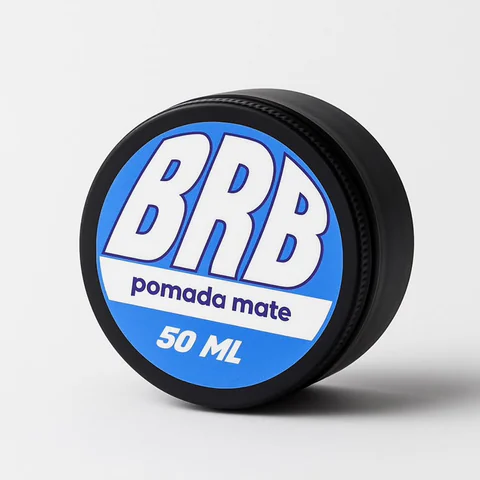
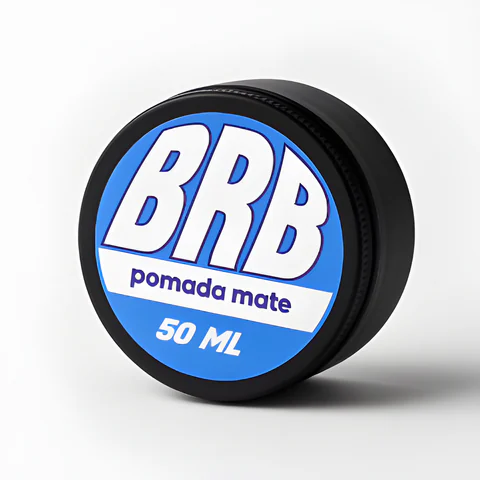
Fotos BRB nuevas mejoradas con IA, antes y después de la pomada y slider más fluido
- Se quita el banner "Pedilos por WhatsApp" y su anuncio.
- Fotos nuevas de Pomada mate y Cera en polvo.
- Antes y después con fotos nuevas alineadas para la cera y uno nuevo para la pomada.
- Fotos chicas mejoradas x4 con Real-ESRGAN (caché en assets-src/brb/x4).
- Slider: resorte por tiempo con inercia, barrido de demo continuo y barra movida con transform.

Changed region(s): [[0.1562, 0.1562, 0.9688, 0.9062], [0.7812, 0.2812, 0.875, 0.5], [0.8438, 0.5312, 0.875, 0.5938]]

diff --git a/src/components/CompareSlider.tsx b/src/components/CompareSlider.tsx
@@ -14,13 +14,18 @@ type Props = {
 };
 
 const clamp = (v: number) => Math.min(100, Math.max(0, v));
-const easeInOut = (t: number) => (t < 0.5 ? 4 * t * t * t : 1 - Math.pow(-2 * t + 2, 3) / 2);
+const easeInOutSine = (t: number) => (1 - Math.cos(Math.PI * t)) / 2;
+
+/** Spring presets (stiffness, damping ratio). Drag: tight follow. Tap/keys: a soft glide. */
+const FOLLOW = { k: 700, zeta: 0.9 };
+const GLIDE = { k: 160, zeta: 0.88 };
 
 /**
  * Before / after comparison. One CSS variable, --p (0..100), drives the
  * divider, the clip of the "después" layer and both labels, so they can never
  * drift apart. Position updates bypass React: a requestAnimationFrame loop
- * eases the current value toward the pointer target and writes --p directly.
+ * runs a time-based spring toward the pointer target (so motion keeps its
+ * momentum and is the same speed at any refresh rate) and writes --p directly.
  * Left of the divider = antes, right = después.
  */
 export function CompareSlider({ before, after, beforeAlt, afterAlt, labels }: Props) {
@@ -28,7 +33,7 @@ export function CompareSlider({ before, after, beforeAlt, afterAlt, labels }: Pr
   const box = useRef<HTMLDivElement>(null);
   const knob = useRef<HTMLSpanElement>(null);
   const [dragging, setDragging] = useState(false);
-  const state = useRef({ current: 50, target: 50, raf: 0, demo: false, touched: false });
+  const state = useRef({ current: 50, target: 50, vel: 0, last: 0, spring: GLIDE, raf: 0, demo: false, touched: false });
   const { width, height } = imageEntry(before);
 
   // Write the position to the DOM (no React render).
@@ -44,19 +49,30 @@ export function CompareSlider({ before, after, beforeAlt, afterAlt, labels }: Pr
     }
   };
 
-  // Ease toward the target; stops itself once settled.
-  const loop = () => {
+  // Spring toward the target; stops itself once settled.
+  const loop = (now: number) => {
     const s = state.current;
-    const diff = s.target - s.current;
-    s.current = Math.abs(diff) < 0.05 ? s.target : s.current + diff * 0.32;
-    paint(s.current);
-    s.raf = s.current === s.target ? 0 : requestAnimationFrame(loop);
+    const dt = Math.min(0.032, s.last ? (now - s.last) / 1000 : 1 / 60);
+    s.last = now;
+    const { k, zeta } = s.spring;
+    // two half steps keep the stiff drag spring stable on slow frames
+    for (let i = 0; i < 2; i++) {
+      const h = dt / 2;
+      const acc = k * (s.target - s.current) - 2 * zeta * Math.sqrt(k) * s.vel;
+      s.vel += acc * h;
+      s.current += s.vel * h;
+    }
+    const settled = Math.abs(s.target - s.current) < 0.02 && Math.abs(s.vel) < 0.05;
+    if (settled) { s.current = s.target; s.vel = 0; }
+    paint(clamp(s.current));
+    s.raf = settled ? 0 : requestAnimationFrame(loop);
   };
-  const goTo = (v: number, instant = false) => {
+  const goTo = (v: number, spring = GLIDE) => {
     const s = state.current;
     s.target = clamp(v);
-    if (instant || reduce) { s.current = s.target; paint(s.current); return; }
-    if (!s.raf) s.raf = requestAnimationFrame(loop);
+    s.spring = spring;
+    if (reduce) { s.current = s.target; s.vel = 0; paint(s.current); return; }
+    if (!s.raf) { s.last = 0; s.raf = requestAnimationFrame(loop); }
   };
 
   const stopDemo = () => {
@@ -65,9 +81,9 @@ export function CompareSlider({ before, after, beforeAlt, afterAlt, labels }: Pr
     s.demo = false;
   };
 
-  const fromClientX = (clientX: number, instant = false) => {
+  const fromClientX = (clientX: number, spring = FOLLOW) => {
     const r = box.current?.getBoundingClientRect();
-    if (r) goTo(((clientX - r.left) / r.width) * 100, instant);
+    if (r) goTo(((clientX - r.left) / r.width) * 100, spring);
   };
 
   useEffect(() => {
@@ -77,11 +93,12 @@ export function CompareSlider({ before, after, beforeAlt, afterAlt, labels }: Pr
     // eslint-disable-next-line react-hooks/exhaustive-deps
   }, []);
 
-  // Demo sweep once in view: centre → most of the antes → most of the después → centre.
+  // Demo sweep once in view: one continuous wave from the centre toward the antes,
+  // across to the después and back to the centre, eased only at the start and end.
   useEffect(() => {
     if (reduce || !box.current) return;
-    const keyframes = [50, 80, 20, 50];
-    const seg = 1000;
+    const duration = 2600;
+    const reach = 28;
     let raf = 0;
     const io = new IntersectionObserver(
       ([e]) => {
@@ -92,13 +109,12 @@ export function CompareSlider({ before, after, beforeAlt, afterAlt, labels }: Pr
         const start = performance.now() + 400;
         const step = (now: number) => {
           if (!s.demo) return;
-          const t = Math.max(0, now - start);
-          const i = Math.min(keyframes.length - 2, Math.floor(t / seg));
-          const local = Math.min(1, (t - i * seg) / seg);
-          const v = keyframes[i] + (keyframes[i + 1] - keyframes[i]) * easeInOut(local);
+          const t = Math.min(1, Math.max(0, now - start) / duration);
+          const v = 50 + reach * Math.sin(2 * Math.PI * easeInOutSine(t));
           s.current = s.target = v;
+          s.vel = 0;
           paint(v);
-          if (t < seg * (keyframes.length - 1)) raf = requestAnimationFrame(step);
+          if (t < 1) raf = requestAnimationFrame(step);
           else s.demo = false;
         };
         raf = requestAnimationFrame(step);
@@ -114,14 +130,14 @@ export function CompareSlider({ before, after, beforeAlt, afterAlt, labels }: Pr
     stopDemo();
     setDragging(true);
     (e.currentTarget as HTMLElement).setPointerCapture(e.pointerId);
-    fromClientX(e.clientX);
+    fromClientX(e.clientX, GLIDE);
   };
   const onPointerMove = (e: React.PointerEvent) => {
     if (!dragging) return;
     // coalesced events give the full-resolution path on fast drags
     const events = e.nativeEvent.getCoalescedEvents?.() ?? [];
     const last = events.length ? events[events.length - 1] : e.nativeEvent;
-    fromClientX(last.clientX);
+    fromClientX(last.clientX, FOLLOW);
   };
   const onPointerUp = () => setDragging(false);
 
@@ -146,7 +162,7 @@ export function CompareSlider({ before, after, beforeAlt, afterAlt, labels }: Pr
     <div>
       <div
         ref={box}
-        className={`frame relative select-none touch-pan-y ${dragging ? 'cursor-grabbing' : 'cursor-ew-resize'}`}
+        className={`frame relative select-none touch-pan-y [container-type:inline-size] ${dragging ? 'cursor-grabbing' : 'cursor-ew-resize'}`}
         style={{ aspectRatio: `${width} / ${height}`, ['--p' as string]: 50 }}
         onPointerDown={onPointerDown}
         onPointerMove={onPointerMove}
@@ -172,8 +188,8 @@ export function CompareSlider({ before, after, beforeAlt, afterAlt, labels }: Pr
 
         {/* divider: cream hairline + gold diamond handle, positioned by the same --p */}
         <div
-          className="pointer-events-none absolute inset-y-0 left-0 z-20 w-0 [transform:translateZ(0)]"
-          style={{ left: 'calc(var(--p) * 1%)' }}
+          className="pointer-events-none absolute inset-y-0 left-0 z-20 w-0 will-change-transform"
+          style={{ transform: 'translate3d(calc(var(--p) * 1cqw), 0, 0)' }}
         >
           <span className="absolute inset-y-0 -left-px w-0.5 bg-white shadow-[0_0_10px_rgb(0_0_0/0.45)]" />
           <span

diff --git a/src/data/products.ts b/src/data/products.ts
@@ -57,14 +57,14 @@ export const PRODUCTS: Product[] = [
       before: 'cera-antes',
       after: 'cera-despues',
       beforeAlt: {
-        es: 'Muchacho de espaldas con gorra: el pelo de la nuca cae lacio y pegado, sin producto',
-        en: 'Young man from behind in a cap: the hair at the nape lies flat, no product',
-        pt: 'Rapaz de costas com boné: o cabelo da nuca cai liso e colado, sem produto',
+        es: 'Hombre de espaldas con corte degradé: el pelo de arriba queda plano y sin volumen, sin producto',
+        en: 'Man from behind with a fade: the hair on top lies flat with no volume, no product',
+        pt: 'Homem de costas com degradê: o cabelo de cima fica baixo e sem volume, sem produto',
       },
       afterAlt: {
-        es: 'El mismo pelo con cera en polvo: mechones con textura y volumen',
-        en: 'The same hair with powder wax: textured, voluminous strands',
-        pt: 'O mesmo cabelo com cera em pó: mechas com textura e volume',
+        es: 'El mismo corte con cera en polvo: mechones levantados, con textura y volumen',
+        en: 'The same cut with powder wax: lifted, textured strands with volume',
+        pt: 'O mesmo corte com cera em pó: mechas levantadas, com textura e volume',
       },
       lead: {
         es: 'Textura y volumen al instante, con acabado mate. Deslizá la barra y mirá la diferencia en el mismo pelo.',
@@ -99,9 +99,9 @@ export const PRODUCTS: Product[] = [
     price: 450,
     image: 'producto-pomada-mate',
     imageAlt: {
-      es: 'Lata negra de Pomada Mate BRB de 50 ml con etiqueta azul, sobre fondo blanco',
-      en: 'Black 50 ml tin of BRB Matte Pomade with a blue label, on a white background',
-      pt: 'Lata preta de Pomada Matte BRB de 50 ml com rótulo azul, sobre fundo branco',
+      es: 'Lata negra de Pomada Mate BRB de 50 ml con etiqueta azul, sobre fondo gris claro',
+      en: 'Black 50 ml tin of BRB Matte Pomade with a blue label, on a light grey background',
+      pt: 'Lata preta de Pomada Matte BRB de 50 ml com rótulo azul, sobre fundo cinza-claro',
     },
     forWhom: {
       es: 'Pelo lacio u ondulado, medio o grueso',
@@ -112,6 +112,42 @@ export const PRODUCTS: Product[] = [
       es: ['Textura y movimiento', 'Acabado mate natural', 'Sin brillo y sin grasa', 'Fijación fuerte todo el día'],
       en: ['Texture and movement', 'Natural matte finish', 'No shine, no grease', 'Strong all-day hold'],
       pt: ['Textura e movimento', 'Acabamento matte natural', 'Sem brilho e sem oleosidade', 'Fixação forte o dia todo'],
+    },
+    showcase: {
+      before: 'pomada-antes',
+      after: 'pomada-despues',
+      beforeAlt: {
+        es: 'Muchacho de espaldas con gorra: el pelo de la nuca cae lacio y pesado, sin producto',
+        en: 'Young man from behind in a cap: the hair at the nape hangs flat and heavy, no product',
+        pt: 'Rapaz de costas com boné: o cabelo da nuca cai liso e pesado, sem produto',
+      },
+      afterAlt: {
+        es: 'El mismo pelo con pomada mate: mechones con textura y movimiento, sin brillo',
+        en: 'The same hair with matte pomade: textured strands with movement, no shine',
+        pt: 'O mesmo cabelo com pomada matte: mechas com textura e movimento, sem brilho',
+      },
+      lead: {
+        es: 'Textura y movimiento con fijación fuerte y acabado mate, sin brillo. Deslizá la barra y mirá la diferencia en el mismo pelo.',
+        en: 'Texture and movement with a strong hold and a matte, shine-free finish. Slide the bar to see the difference on the same hair.',
+        pt: 'Textura e movimento com fixação forte e acabamento matte, sem brilho. Deslize a barra e veja a diferença no mesmo cabelo.',
+      },
+      steps: {
+        es: [
+          'Tomá una cantidad chica con la yema de los dedos y calentala entre las manos.',
+          'Aplicala sobre el pelo seco o apenas húmedo, de la raíz a las puntas.',
+          'Marcá mechones con los dedos para darle textura y movimiento.',
+        ],
+        en: [
+          'Take a small amount with your fingertips and warm it between your hands.',
+          'Work it into dry or slightly damp hair, from roots to ends.',
+          'Twist strands with your fingers for texture and movement.',
+        ],
+        pt: [
+          'Pegue uma pequena quantidade com a ponta dos dedos e aqueça entre as mãos.',
+          'Aplique no cabelo seco ou levemente úmido, da raiz às pontas.',
+          'Marque mechas com os dedos para dar textura e movimento.',
+        ],
+      },
     },
   },
 ];

diff --git a/src/components/Products.tsx b/src/components/Products.tsx
@@ -103,32 +103,6 @@ export function Products({ t, lang }: { t: Dict; lang: Lang }) {
             </li>
           ))}
         </ul>
-
-        {/* Order banner: the BRB ad + a WhatsApp CTA */}
-        <a
-          href={whatsappUrl(t.products.orderMessage)}
-          target="_blank"
-          rel="noopener"
-          className="reveal group mx-auto mt-20 grid max-w-4xl items-center gap-8 border border-line bg-ink p-5 no-underline transition-colors hover:border-gold/60 sm:grid-cols-[minmax(0,15rem)_1fr] sm:gap-10 sm:p-6"
-        >
-          <span className="frame block aspect-[4/7] w-full max-w-[15rem] justify-self-center overflow-hidden">
-            <Img
-              name="brb-anuncio"
-              alt={t.products.orderImageAlt}
-              sizes="(min-width: 640px) 240px, 80vw"
-              className="size-full object-cover transition-transform duration-700 ease-[var(--ease-out-expo)] group-hover:scale-[1.03]"
-            />
-          </span>
-          <span className="flex flex-col items-start text-left">
-            <span className="text-[0.85rem] font-bold uppercase tracking-[0.14em] text-gold-hi">{t.products.orderKicker}</span>
-            <span className="mt-3 font-display text-[2rem] uppercase leading-[1.05] tracking-[0.04em] text-cream sm:text-[2.4rem]">{t.products.orderTitle}</span>
-            <span className="mt-4 max-w-[42ch] text-[1.02rem] text-cream/85">{t.products.orderText}</span>
-            <span className="btn btn-gold mt-7">
-              <WhatsApp className="text-lg" />
-              {t.products.orderButton}
-            </span>
-          </span>
-        </a>
       </div>
 
       <Lightbox group="productos" items={items} index={index} onChange={setIndex} labels={t.lightbox} />

diff --git a/src/i18n/es.ts b/src/i18n/es.ts
@@ -63,18 +63,12 @@ const es = {
     ask: 'Consultar por WhatsApp',
     askMessage: 'Hola, quiero consultar por {product}',
     enlarge: 'Ampliar foto de',
-    orderKicker: 'Productos BRB',
-    orderTitle: 'Pedilos por WhatsApp',
-    orderText: 'Escribinos qué producto BRB querés y coordinamos para que lo retires en la barbería o te lo hagamos llegar.',
-    orderButton: 'Pedir por WhatsApp',
-    orderMessage: 'Hola, quiero pedir productos BRB',
-    orderImageAlt: 'Anuncio de BRB Cera en Polvo: comparación sin BRB y con BRB, y el frasco del producto',
   },
   beforeAfter: {
     title: 'Antes y después',
     intro: 'Así cambia el pelo con los productos que usamos en el sillón. Deslizá la barra para comparar.',
     productTitle: '{product}: antes y después',
-    illustrative: 'Resultado ilustrativo · fotos de BRB Productos',
+    illustrative: 'Resultado ilustrativo · imágenes de referencia',
     before: 'Antes',
     after: 'Después',
     sliderLabel: 'Comparar antes y después de {product}',

diff --git a/src/i18n/pt.ts b/src/i18n/pt.ts
@@ -65,18 +65,12 @@ const pt: Dict = {
     ask: 'Perguntar pelo WhatsApp',
     askMessage: 'Olá, quero saber sobre {product}',
     enlarge: 'Ampliar foto de',
-    orderKicker: 'Produtos BRB',
-    orderTitle: 'Peça pelo WhatsApp',
-    orderText: 'Conte pra gente qual produto BRB você quer e combinamos a retirada na barbearia ou a entrega.',
-    orderButton: 'Pedir pelo WhatsApp',
-    orderMessage: 'Olá, quero pedir produtos BRB',
-    orderImageAlt: 'Anúncio da Cera em Pó BRB: cabelo sem BRB e com BRB, ao lado do frasco do produto',
   },
   beforeAfter: {
     title: 'Antes e depois',
     intro: 'Como o cabelo muda com os produtos que usamos na cadeira. Deslize a barra para comparar.',
     productTitle: '{product}: antes e depois',
-    illustrative: 'Resultado ilustrativo · fotos da BRB Productos',
+    illustrative: 'Resultado ilustrativo · imagens de referência',
     before: 'Antes',
     after: 'Depois',
     sliderLabel: 'Comparar antes e depois de {product}',

diff --git a/src/i18n/en.ts b/src/i18n/en.ts
@@ -65,18 +65,12 @@ const en: Dict = {
     ask: 'Ask on WhatsApp',
     askMessage: 'Hi, I’d like to ask about {product}',
     enlarge: 'Enlarge photo of',
-    orderKicker: 'BRB products',
-    orderTitle: 'Order them on WhatsApp',
-    orderText: 'Tell us which BRB product you want and we’ll arrange pickup at the shop or get it to you.',
-    orderButton: 'Order on WhatsApp',
-    orderMessage: 'Hi, I’d like to order BRB products',
-    orderImageAlt: 'BRB Powder Wax ad: hair without and with BRB, next to the product bottle',
   },
   beforeAfter: {
     title: 'Before and after',
     intro: 'How hair changes with the products we use in the chair. Slide the bar to compare.',
     productTitle: '{product}: before and after',
-    illustrative: 'Illustrative result · photos by BRB Productos',
+    illustrative: 'Illustrative result · reference images',
     before: 'Before',
     after: 'After',
     sliderLabel: 'Compare before and after for {product}',
